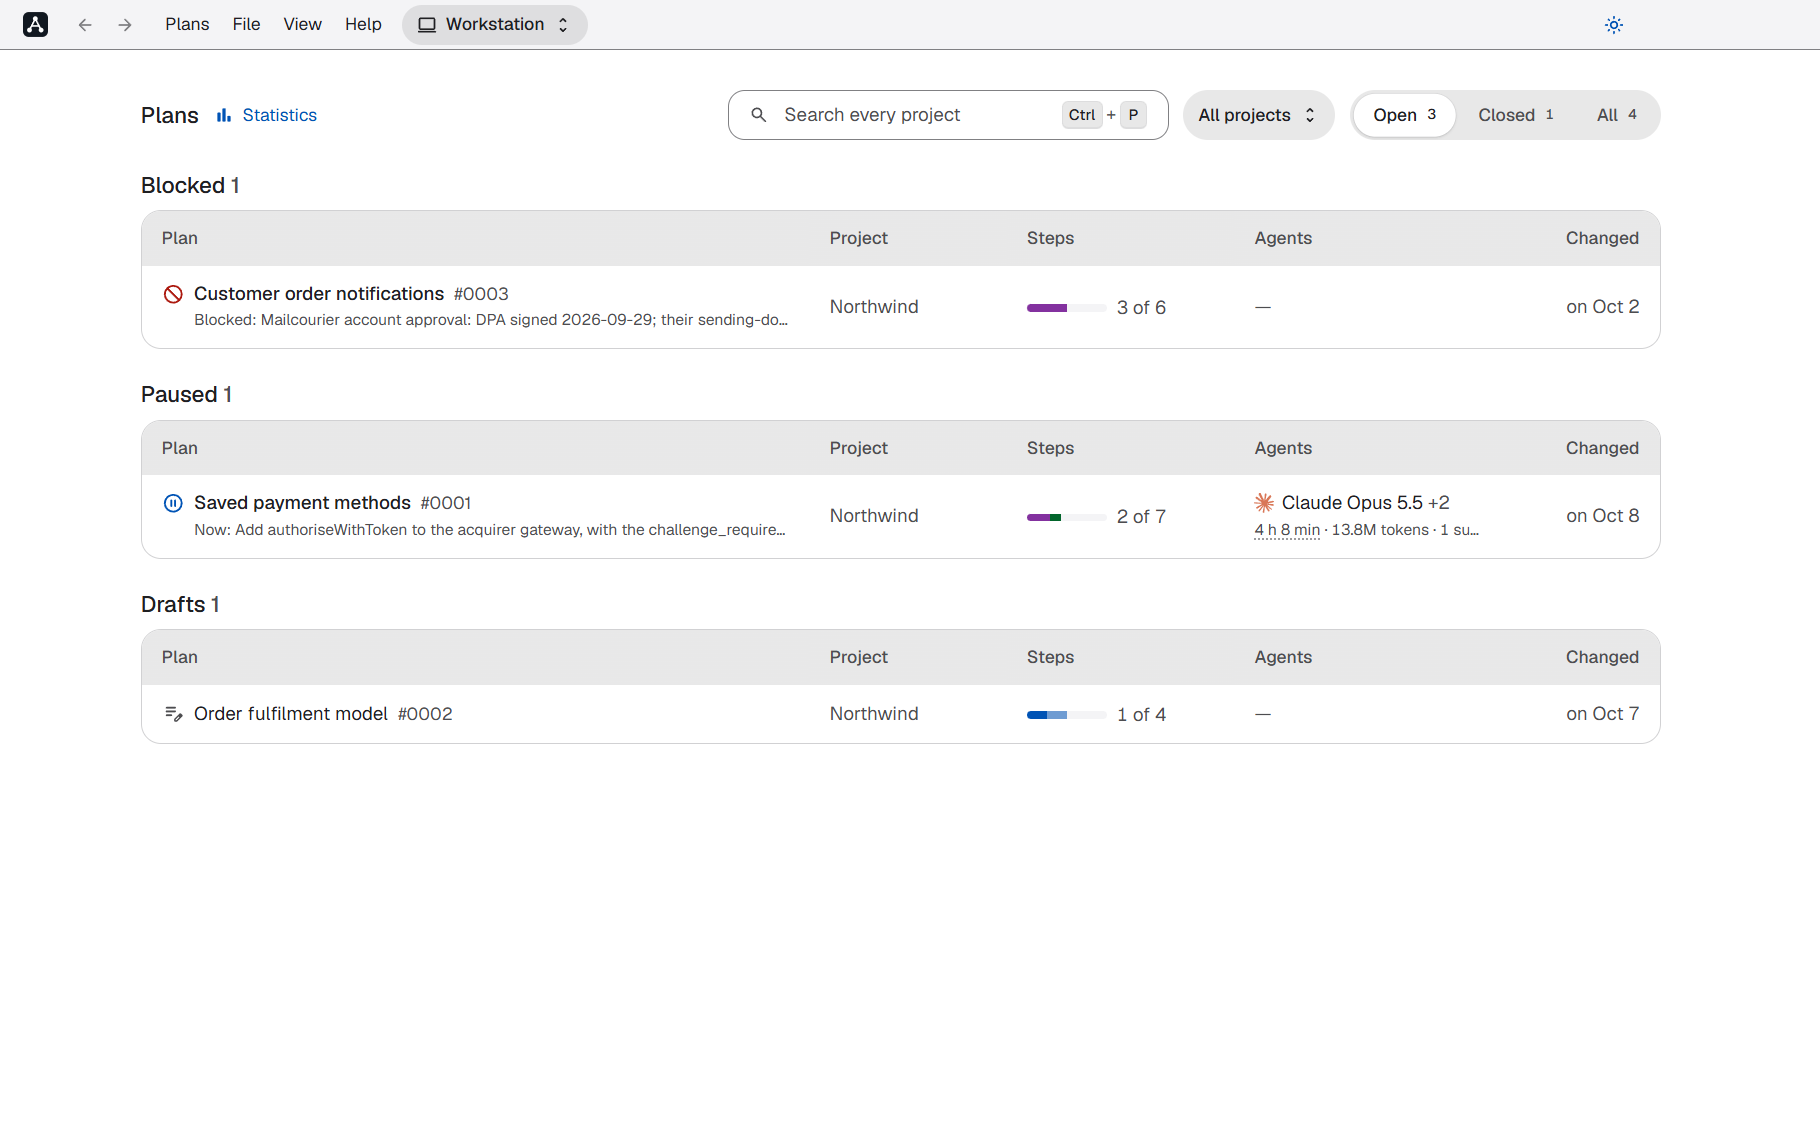
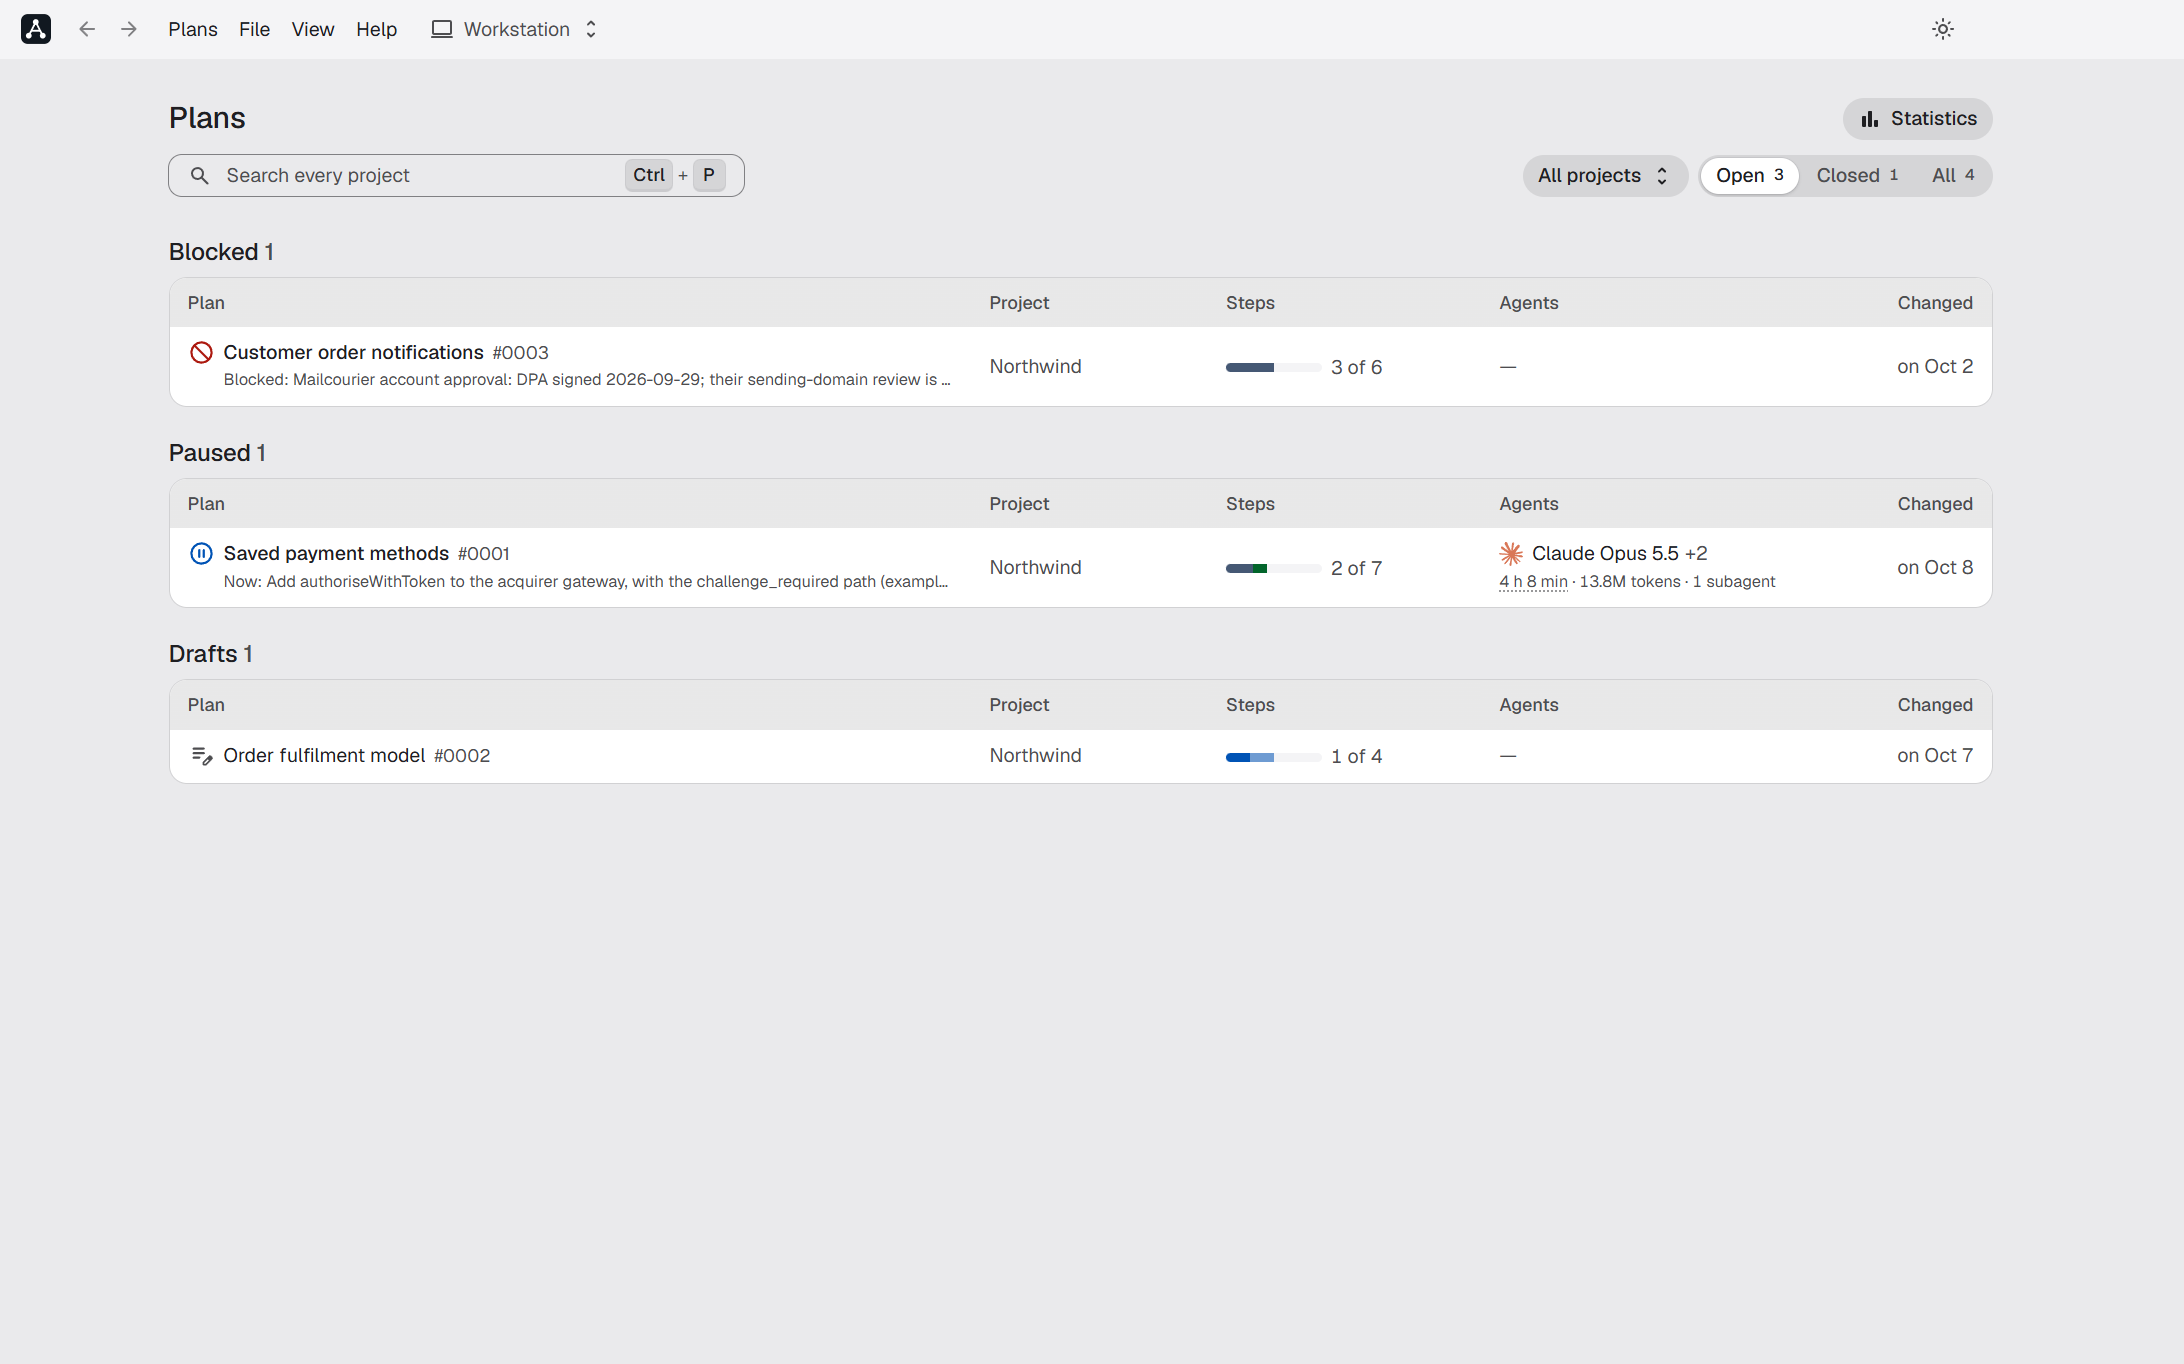
App: what Open in left behind goes too; screenshots of the window as it is now

diff --git a/app/main/windows/ipc.ts b/app/main/windows/ipc.ts
@@ -9,8 +9,8 @@ import { app, BrowserWindow, clipboard, dialog, ipcMain, nativeTheme, shell, typ
 import { HostRequestError, parsePairing, type HostClient } from '@envsemble/atlas/host';
 import { resolveDocument } from '@envsemble/atlas/planning';
 import { accessSettings, deviceText } from '@envsemble/atlas/host/validate';
-import { agentNames, defaultUiState, fullPath, invokeChannels, limits, type AboutInfo, type AgentId, type AccessSettings, type InvokeChannel, type LoadedUi, type PairingGrant, type Project, type PairingLinkView, type Place, type ProjectPlace, type ProjectChangeRequest, type ReferenceInput, type Result, type ThemePreference, type UiState } from '../../shared/contract.ts';
-import { agentId, argumentsOf, array, boolean, command, diagramPath, folderPath, integer, ipAddress, nullable, object, oneOf, optional, pairingCode, place, projectId, projectName, referenceInput, referenceInputs, relativePath, string, statisticsUnit, isoTime, themePreference, uiState, url, workId, type Validator } from '../../shared/validate.ts';
+import { agentNames, defaultUiState, fullPath, invokeChannels, limits, type AboutInfo, type AgentId, type AccessSettings, type InvokeChannel, type LoadedUi, type PairingGrant, type Project, type PairingLinkView, type ProjectChangeRequest, type ReferenceInput, type Result, type ThemePreference, type UiState } from '../../shared/contract.ts';
+import { agentId, argumentsOf, array, boolean, command, diagramPath, folderPath, integer, ipAddress, nullable, object, oneOf, optional, pairingCode, projectId, projectName, referenceInput, referenceInputs, relativePath, string, statisticsUnit, isoTime, themePreference, uiState, url, workId, type Validator } from '../../shared/validate.ts';
 import { AtlasError, toErrorValue } from '../errors.ts';
 import type { ProjectView } from '../computers/projectView.ts';
 import type { Agents } from '../agent/agents.ts';
@@ -68,7 +68,7 @@ const within = (folder: string, candidate: string) => {
 };
 
 /** Open the file a path reference names, as the host resolves it in the project's folders: never a path the page names itself. */
-async function openReference(manager: WindowManager, window: AtlasWindow, projectId: string, reference: ReferenceInput) {
+async function openReference(window: AtlasWindow, projectId: string, reference: ReferenceInput) {
   thisComputer(window, 'Files');
   if (reference.kind !== 'path') throw new AtlasError('invalid-argument', 'Only a file reference opens in the editor.');
   const view = await window.readable(projectId);
@@ -191,7 +191,7 @@ function channels(manager: WindowManager, actions: IpcActions): Record<InvokeCha
     // All plans: the projects this window's computer has active, as the app keeps them.
     'projects:statistics': { args: [nullable(isoTime), nullable(isoTime), statisticsUnit], handle: async (window, from: string | null, to: string | null, unit: 'day' | 'week') => remoteErrors(window.client().request('projects.statistics', { projectIds: [...await window.activeProjects()], from, to, unit }, { timeout: 30000 })) },
     'ui:load': { args: [], handle: window => loadUi(manager, window) },
-    'ui:save': { args: [uiState], handle: (window, state: UiState) => { window.shown = state.place; return queueSave(manager, window, state); } },
+    'ui:save': { args: [uiState], handle: (window, state: UiState) => queueSave(manager, window, state) },
     'shell:reveal': { args: [projectId, relativePath], handle: (window, projectId: string, file: string) => revealInside(window, projectId, file) },
     'shell:openExternal': {
       args: [url],
@@ -205,7 +205,7 @@ function channels(manager: WindowManager, actions: IpcActions): Record<InvokeCha
         await shell.openExternal(external ?? application!);
       },
     },
-    'shell:openReference': { args: [projectId, referenceInput], handle: (window, projectId: string, reference: ReferenceInput) => openReference(manager, window, projectId, reference) },
+    'shell:openReference': { args: [projectId, referenceInput], handle: (window, projectId: string, reference: ReferenceInput) => openReference(window, projectId, reference) },
     'shell:copy': { args: [string({ min: 1, max: 10000 })], handle: (_window, text: string) => { clipboard.writeText(text); } },
     'app:theme': { args: [], handle: () => manager.context.state.theme },
     // Every window follows the native theme through prefers-color-scheme, so one change reaches them all.

diff --git a/app/main/windows/window.ts b/app/main/windows/window.ts
@@ -4,7 +4,7 @@
 // its `atlas:` file protocol can only ever see the projects it follows.
 import { BrowserWindow, dialog, nativeTheme, screen, session as electronSession, shell, type Session } from 'electron';
 import type { HostClient, Project } from '@envsemble/atlas/host';
-import type { EventChannel, Place, ProjectChangeRequest, WindowInfo } from '../../shared/contract.ts';
+import type { EventChannel, ProjectChangeRequest, WindowInfo } from '../../shared/contract.ts';
 import { AtlasError } from '../errors.ts';
 import { ProjectView } from '../computers/projectView.ts';
 import { createProtocolHandler, isEntry, originOf, rendererOrigin, scheme } from './protocol.ts';
@@ -59,8 +59,6 @@ export class AtlasWindow {
   computer: string | null;
   /** The projects the window follows, by their IDs. */
   readonly views = new Map<string, ProjectView>();
-  /** The place the page last said it shows (ui:save); Open in opens only a file of it. */
-  shown: Place | null = null;
   /** Projects still being followed: a request for one waits for it. */
   private readonly opening = new Map<string, Promise<void>>();
   /** The projects of the window's computer as last listed, with their rows in the home database. */

diff --git a/app/src/window/windowContext.tsx b/app/src/window/windowContext.tsx
@@ -68,13 +68,12 @@ export function useWindowActions(): WindowActions {
   return value;
 }
 
-/** A link to a target; `rowTarget` makes it cover its interactive row (envUI), without being dragged away as a link. */
-export function TargetLink({ target, children, className, title, id, underline = false, rowTarget = false }: { target: Target; children: ReactNode; className?: string; title?: string; id?: string; underline?: boolean; rowTarget?: boolean }) {
+/** A link to a target. */
+export function TargetLink({ target, children, className, title, id, underline = false }: { target: Target; children: ReactNode; className?: string; title?: string; id?: string; underline?: boolean }) {
   const { open } = useWindowActions();
   const activate = (event: MouseEvent) => {
     event.preventDefault();
     open(target);
   };
-  return <Link id={id} href="#" underline={underline} className={className} title={title} onClick={activate}
-    {...(rowTarget && { 'data-row-target': '', draggable: false })}>{children}</Link>;
+  return <Link id={id} href="#" underline={underline} className={className} title={title} onClick={activate}>{children}</Link>;
 }

diff --git a/app/src/atlas.css b/app/src/atlas.css
@@ -24,8 +24,8 @@ body { margin: 0; }
 .page-state { box-sizing: border-box; min-block-size: 100%; display: grid; place-content: center; justify-items: center; gap: var(--env-space-3); color: var(--env-color-fg-muted); }
 
 /* One row at the top, the window's own title bar (envUI's TopBar in a Scaffold): the logo, back and
-   forward, Plans, File, View and Help and the computer at the start; Open in, search, record health
-   and the theme at the end, before the window buttons the system draws. The body scrolls below it. */
+   forward, Plans, File, View and Help and the computer at the start; search, record health and the
+   theme at the end, before the window buttons the system draws. The body scrolls below it. */
 .atlas-window { --app-sticky-top: 0rem; }
 /* Menus, lists, popovers, dialogs and tooltips open over the window's drag area (the title bar): the
    window would take a click there for a drag, so they are cut out of it. */

diff --git a/app/src/reader/ReferenceLink.tsx b/app/src/reader/ReferenceLink.tsx
@@ -95,7 +95,7 @@ export function ReferenceLink({ found, children }: { found: Found; children: Rea
   if (!answer) return <>{children}</>;
   const { input } = found;
   if (input.kind === 'path') {
-    if (answer.file && !remote) return <Action run={() => { api.openReference(projectId, input).catch(failed); }} title={'Open in your editor: ' + answer.file.path + (answer.file.line ? ':' + answer.file.line : '')}>{children}</Action>;
+    if (answer.file && !remote) return <Action run={() => { api.openReference(projectId, input).catch(failed); }} title={'Open in VS Code: ' + answer.file.path + (answer.file.line ? ':' + answer.file.line : '')}>{children}</Action>;
     return answer.url ? <Action run={() => openUrl(answer.url!)} title={answer.url}>{children}</Action> : <>{children}</>;
   }
   if (!answer.url) return <>{children}</>;

diff --git a/app/src/window/Window.tsx b/app/src/window/Window.tsx
@@ -11,7 +11,7 @@ import { ThemeMenu } from '../titleBar/ThemeMenu';
 import { ErrorIcon, SearchIcon, WarningIcon } from '../ui/icons';
 import type { MenuCommand } from '../../shared/contract';
 import type { Issue, LoadedUi, OpenProjectChange, Project, ProjectChangeRequest, SettingsSection, Snapshot, SnapshotWork, Target, Work, WindowInfo } from '../types';
-import { api, AtlasError } from '../api';
+import { api } from '../api';
 import { documentTarget, hubPlace, isPage, placeId, placeProject, scrollKey, settingsPlace, statisticsPlace, workTarget, type Place, type ProjectPlace } from '../navigation/targets';
 import { samePath, siblingProject } from '../reader/links';
 import { canGoBack, canGoForward, currentEntry, keyStep, record, samePlace, startHistory, step } from '../navigation/history';

diff --git a/THIRD_PARTY_NOTICES.md b/THIRD_PARTY_NOTICES.md
@@ -12,8 +12,6 @@ The interface icons are envUI's Material Symbols. The reusable viewer imports th
 
 The AI providers' marks beside model names in the app's statistics (Claude's spark for Anthropic, the OpenAI blossom, the Gemini sparkle, Mistral AI's M and the DeepSeek whale) are SVG paths from [Simple Icons](https://github.com/simple-icons/simple-icons) under CC0 1.0: release 16.35.0, and 15.22.0 for OpenAI's, the last release that included it. Only the path data is copied, in `app/src/ui/ModelName.tsx`. The marks are trademarks of their owners and only identify their models; showing them implies no endorsement or affiliation.
 
-The editors' marks in the app's Open in button (Visual Studio Code's, also for VS Code Insiders, Cursor's, Windsurf's and Zed's) are SVG paths from [Simple Icons](https://github.com/simple-icons/simple-icons) under CC0 1.0: release 16.35.0, and 12.4.0 for Visual Studio Code's, the last release that included it. Only the path data is copied, in `app/src/ui/EditorMark.tsx`. The marks are trademarks of their owners and only identify their editors; showing them implies no endorsement or affiliation.
-
 Vite 8.3.3 and its React plugin 6.1.2 provide the development server and Fast Refresh under their upstream MIT licenses, distributed with the npm dependencies. They are not bundled into offline HTML or required by the library at runtime.
 
 fflate 0.8.3 supplies the compressed export archive and offline decompression. Its MIT license is in packages/diagrams/licenses/fflate-LICENSE and retained in bundled code notices. Shiki 4.5.0 highlights snippets at build time; its MIT license is in packages/diagrams/licenses/shiki-LICENSE. Shiki's runtime, WebAssembly and grammars are not shipped as browser runtime dependencies.

diff --git a/app/README.md b/app/README.md
@@ -171,7 +171,7 @@ The app follows Electron's security checklist:
 
 **Help › Open Logs** opens `logs/` in the Atlas home: `atlas.log` (the app: start-up, windows and connections) and `host.log` (the Atlas host: folders, the watcher, remote access and pairings), each up to 1 MB with up to three older files. **Help › About Atlas** shows the version, the Electron, Chromium and Node.js versions, the system and the Atlas home; **Copy Details** copies what a bug report needs, without the home's path.
 
-Atlas keeps its own data in the Atlas home, `~/.atlas` (or `ATLAS_HOME`), shared with the `atlas` command: the planning folders in `planning/`, and the projects' order and state, the windows and their places, the theme, the editor, remote access and pairings, and statistics in the home database, `atlas.db`. Electron's own files stay in its per-user folder (`%APPDATA%\Atlas` on Windows, `~/.config/Atlas` on Linux). Atlas writes into a planning folder only when you create or rename a project, or change its folders.
+Atlas keeps its own data in the Atlas home, `~/.atlas` (or `ATLAS_HOME`), shared with the `atlas` command: the planning folders in `planning/`, and the projects' order and state, the windows and their places, the theme, remote access and pairings, and statistics in the home database, `atlas.db`. Electron's own files stay in its per-user folder (`%APPDATA%\Atlas` on Windows, `~/.config/Atlas` on Linux). Atlas writes into a planning folder only when you create or rename a project, or change its folders.
 
 ## Develop
 
